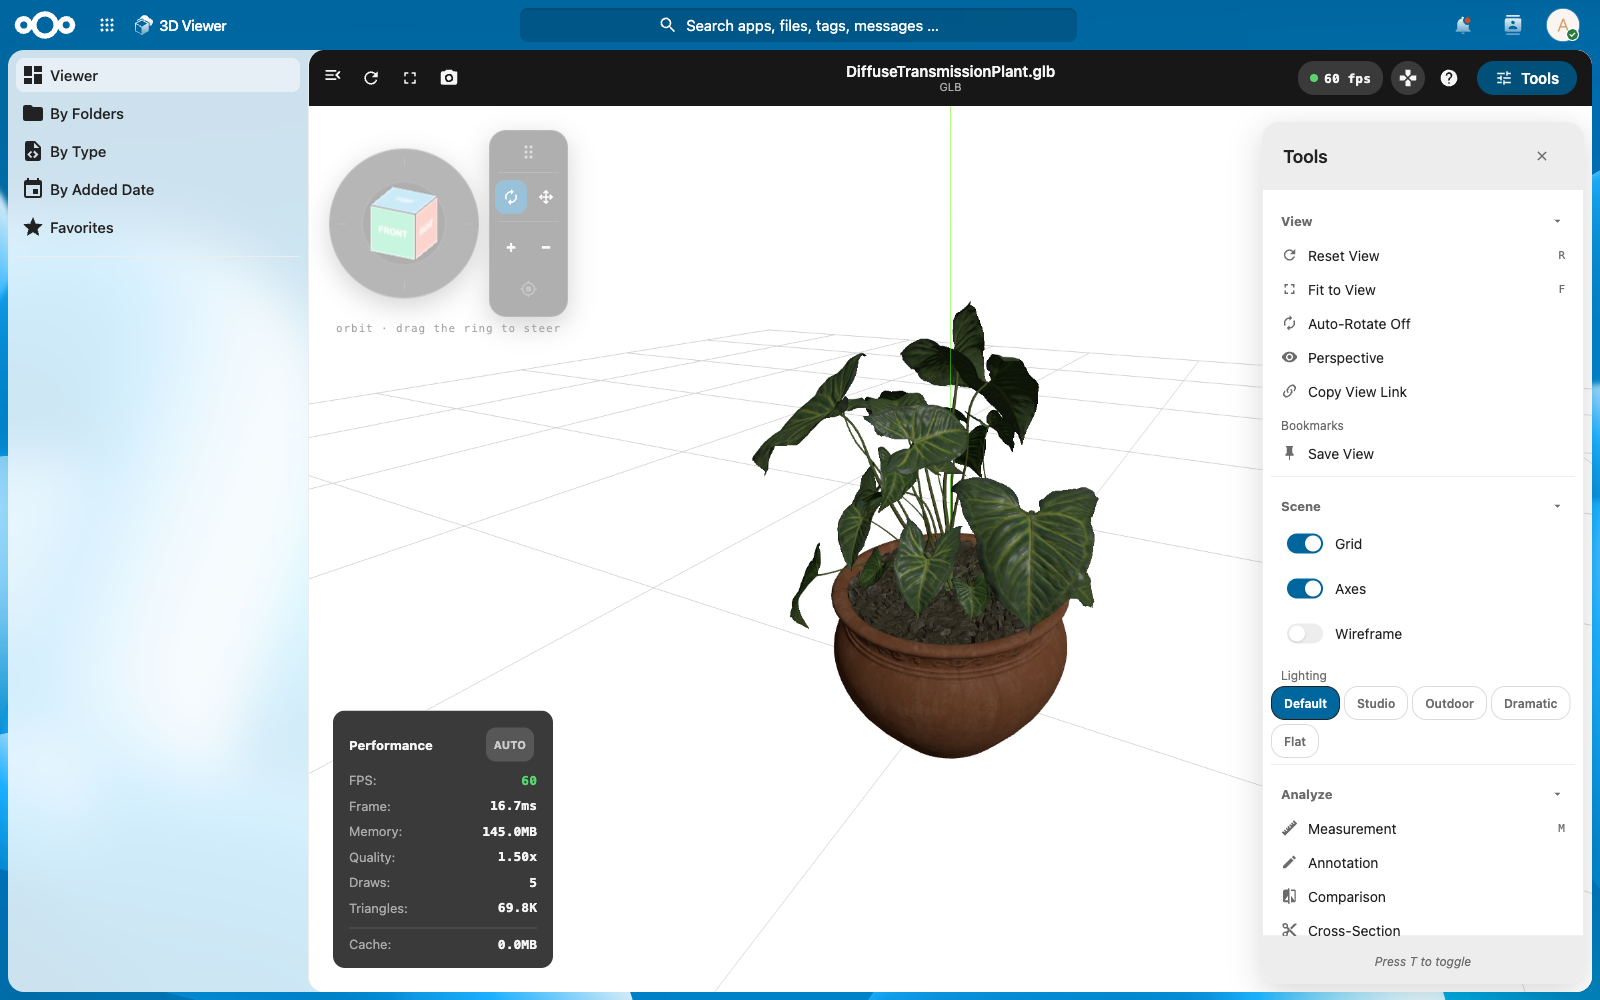
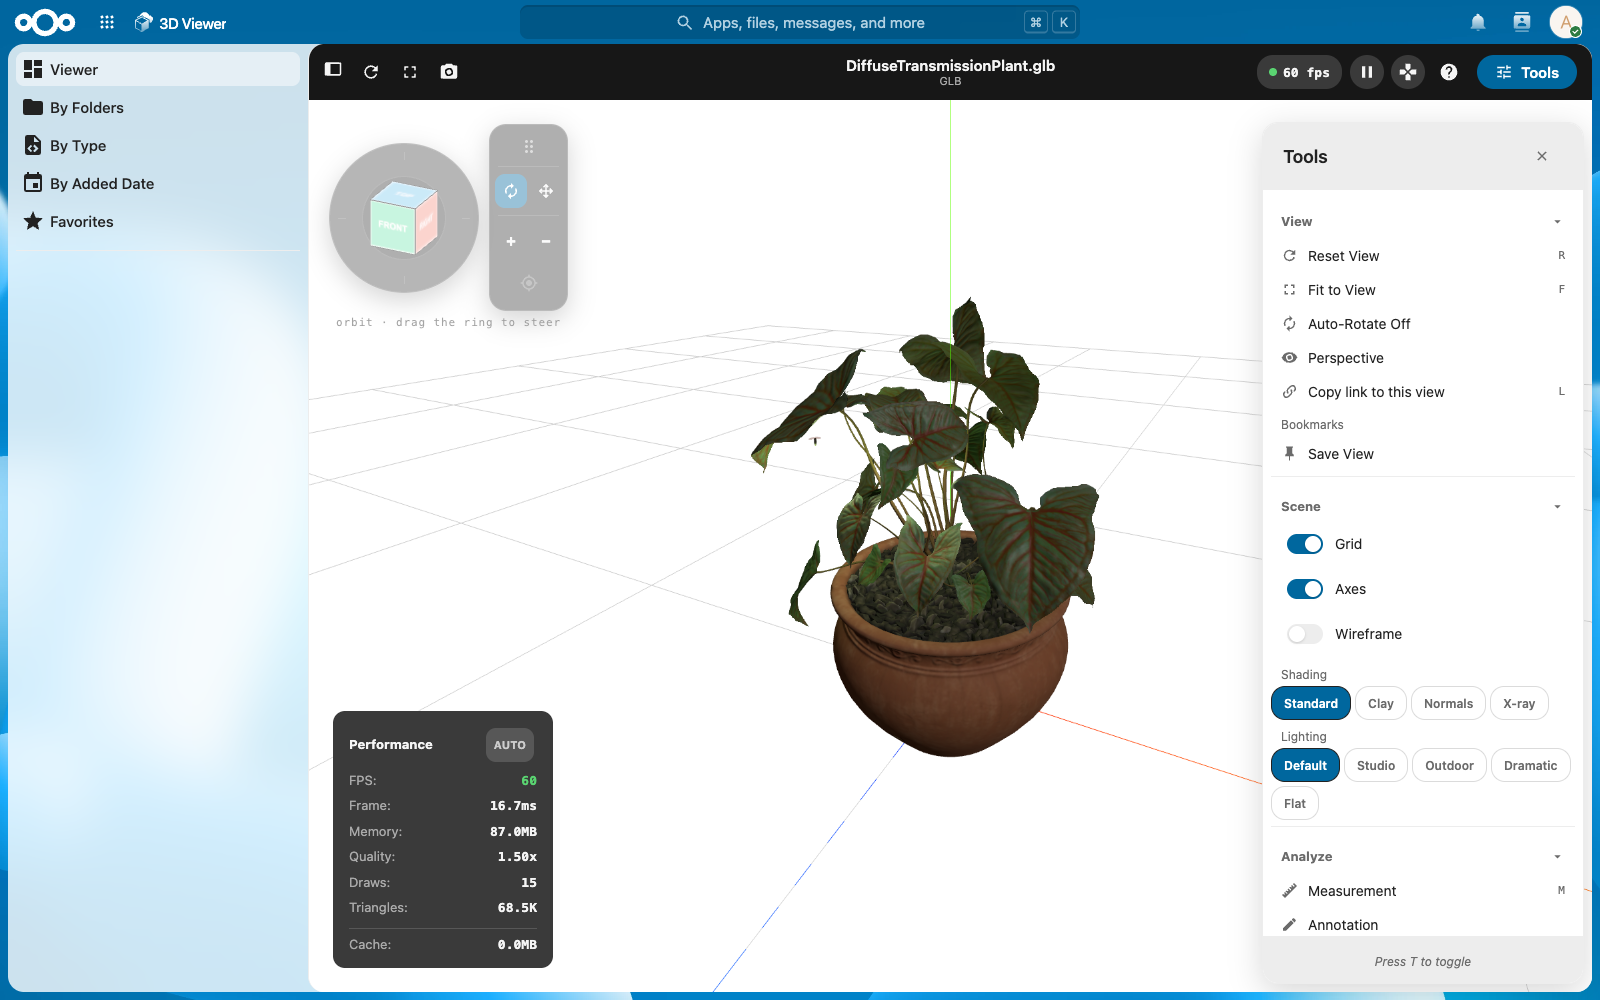
chore(release): 3.13.0 (#291)

diff --git a/README.md b/README.md
@@ -1,6 +1,6 @@
 # 3D Viewer for Nextcloud
 
-[![Version](https://img.shields.io/badge/version-3.12.0-blue)](https://github.com/maz1987in/3Dviewer-Nextcloud/releases)
+[![Version](https://img.shields.io/badge/version-3.13.0-blue)](https://github.com/maz1987in/3Dviewer-Nextcloud/releases)
 [![License](https://img.shields.io/badge/license-AGPL--3.0-orange)](LICENSE)
 [![Nextcloud](https://img.shields.io/badge/Nextcloud-31--35-0082c9)](https://nextcloud.com)
 [![Update nextcloud/ocp](https://github.com/maz1987in/3Dviewer-Nextcloud/actions/workflows/update-nextcloud-ocp-matrix.yml/badge.svg)](https://github.com/maz1987in/3Dviewer-Nextcloud/actions/workflows/update-nextcloud-ocp-matrix.yml)
@@ -98,7 +98,7 @@ A comprehensive 3D model viewer application for Nextcloud that supports multiple
 - **Model Comparison** - Side-by-side model viewing with synchronized controls, against another file or an earlier version of the same file
 - **Compare with an Earlier Version** - Pick one of the versions Nextcloud kept and see it beside the current model with what changed, or as a see-through ghost over it
 - **Print Check** - See whether a model fits your printer's build volume (common printers or your own size), which surfaces overhang past an angle you choose, roughly how much filament it needs, and which walls are thinner than a minimum you set; for G-code, the print time and filament the slicer worked out
-- **View in AR** - On an iPhone or iPad in Safari (AR Quick Look) or an Android phone with Chrome (a live camera view), put the open model in your room at its real size, from the file's unit: a 100 mm part is 100 mm on your table. The button shows only on devices that can do it: in the full viewer's toolbar and its tools panel, and beside Screenshot in the viewer that public links and the Files preview open, so someone you share a model with can see it in their room without an account (not in embeds on other websites). It is off for scans and splats, and refuses models too heavy for a phone
+- **View in AR** - On an iPhone or iPad in Safari (AR Quick Look) or an Android phone with Chrome (a live camera view), put the open model in your room at its real size, from the file's unit: a 100 mm part is 100 mm on your table. The button shows only on phones and tablets (in Brave, Chrome or Firefox on an iPhone or iPad it says to open the page in Safari): in the full viewer's toolbar and its tools panel, and beside Screenshot in the viewer that public links and the Files preview open, so someone you share a model with can see it in their room without an account (not in embeds on other websites). It is off for scans and splats, and refuses models too heavy for a phone
 - **Turntable Video** - Record one full turn around the model (4–15 s, at 720p, 1080p or your window's size) and download it as WebM or MP4, or save it next to the model in your Nextcloud
 - **Links to a View** - "Copy link to this view" (or the L key) copies a link that reopens the model as you see it: the same camera, shading, lighting, cross-section and exploded view. Notes and bookmarks have links of their own. The link points at the file, so only people who can open it see it
 - **Link Previews** - A link to a model in Talk, Text, Collectives or Deck shows as a card with its thumbnail, name, format and size and an "Open in 3D Viewer" button, for people who can open the file. "3D models" in the Smart Picker finds a model by name and inserts its link
@@ -263,28 +263,26 @@ This project is licensed under the **AGPL-3.0 License**. See [LICENSE](LICENSE) 
 
 ## 📊 Version
 
-**Current Version**: 3.12.0
-**Released**: November 13, 2026
+**Current Version**: 3.13.0
+**Released**: November 25, 2026
 **Requires**: Nextcloud 31 -- 35
 
-### What's New in 3.12.0
+### What's New in 3.13.0
 
-**View in AR on public links:**
-- Someone you share a model with by link can put it in their room on an iPhone, an iPad or an Android phone with Chrome, without an account; the Files preview offers it too
-- It is at the real size from the file's unit, including a unit chosen for the file
+**Save an export next to the model:**
+- "Save STL next to the model" (or whichever format is chosen) writes the export into the model's own folder in Nextcloud instead of downloading it, so a STEP file can become an STL beside it for the slicer
+- A file already there is never replaced: the copy is "bracket (2).stl". It is offered to anyone who may add files to that folder; a public link keeps the download
 
-**View in AR in the toolbar:**
-- On a phone or tablet that can show a model in the room, the full viewer has an AR button beside Help, one tap from the model
-- On a narrow phone the toolbar makes room so Tools always stays on screen
+**View in AR in other iPhone browsers:**
+- In Brave, Chrome or Firefox on an iPhone or iPad, the AR button now shows too, and says to open the page in Safari, the only browser there that can show a web page's model in the room
 
-**Print check without freezing:**
-- Print check opens at once on large models and measures in the background; on a 240,000-triangle model the page no longer stops
-
-**Help:**
-- The in-app help covers Print check, Record turntable, Copy link to this view, Copy embed code, file units, Which way is up and link previews
+**Also:**
+- An export of "bracket.v2.stl" is named "bracket.v2.glb", no longer "bracket.glb"
+- fast-xml-parser updated for a low-severity advisory; the app's production dependencies have no known advisories
 
 ### Recent releases
 
+- **3.12.0:** View in AR on public links and in the Files preview, an AR button in the phone toolbar, Print check that opens at once on large models, and in-app help for the tools added since 3.8
 - **3.11.0:** a Parts panel with IFC properties, View in AR, link previews in Talk, Text, Collectives and Deck, and notifications for notes
 - **3.10.0:** point clouds (LAS, LAZ, E57, PCD, XYZ) and Gaussian splats, links to a view, file units, embedding on other websites, and "Which way is up"
 - **3.9.0:** compare with an earlier version of a file, Print check, and turntable video

diff --git a/CHANGELOG.md b/CHANGELOG.md
@@ -7,14 +7,22 @@ and this project adheres to [Semantic Versioning](https://semver.org/spec/v2.0.0
 
 ## [Unreleased]
 
+## [3.13.0] - 2026-11-25
+
+An export can now be saved straight into Nextcloud, next to the model, instead of downloaded: turn a STEP file into an STL beside it for the slicer, or keep a USDZ for a colleague. On an iPhone or iPad, people in Brave, Chrome or Firefox now find the View in AR button too, and it tells them to open the page in Safari, the only browser there that can show a web page's model in the room.
+
 ### Added
 - Save an export next to the model: under the tools panel's export format list, "Save STL next to the model" (or GLB, OBJ, 3MF, PLY, USDZ, ZIP, as chosen) writes the export into the model's own folder in Nextcloud instead of downloading it, so a STEP file can be turned into an STL beside it for the slicer, or a USDZ kept for a colleague. A file already there by that name is never replaced: the copy is called "bracket (2).stl". The button shows only to someone logged in who may add files to that folder, as Record turntable's save does; a public link and a folder shared read-only keep the download alone. A failed save says why (no space left, no permission any more) and Export still downloads.
 
 ### Changed
 - On an iPhone or iPad, browsers other than Safari (Brave, Chrome, Firefox, and the browsers inside other apps) now show the View in AR button too, and pressing it says to open the page in Safari. Apple lets only Safari open AR Quick Look from a web page, and the button used to be missing from these browsers with nothing to say why. It is the same in the full viewer, on public links and in the Files preview.
+- vue 3.5.44 → 3.5.45 and web-ifc 0.0.78 → 0.0.79 (the IFC loader), with eslint 10.15, @playwright/test 1.65, @babel/core 8.1.3, sass-embedded 1.108 and stylelint-scss 7.5 among the development tools.
 
 ### Fixed
 - An export of a file with a dot in its name lost everything after the first dot: "bracket.v2.stl" was exported as "bracket.glb". It is now "bracket.v2.glb".
+
+### Security
+- fast-xml-parser 5.11.2 → 5.12.1 ([GHSA-474x-hrwr-fgx4](https://github.com/advisories/GHSA-474x-hrwr-fgx4), low: slow parsing of malformed XML), which the app ships through `@nextcloud/dialogs` and `webdav`. `npm audit --omit=dev` now reports nothing. typescript-eslint 8.74 and eslint 10.15 also move the development tools off the vulnerable minimatch ([GHSA-g3hv-75wg-m249](https://github.com/advisories/GHSA-g3hv-75wg-m249)).
 
 ## [3.12.0] - 2026-11-13
 
